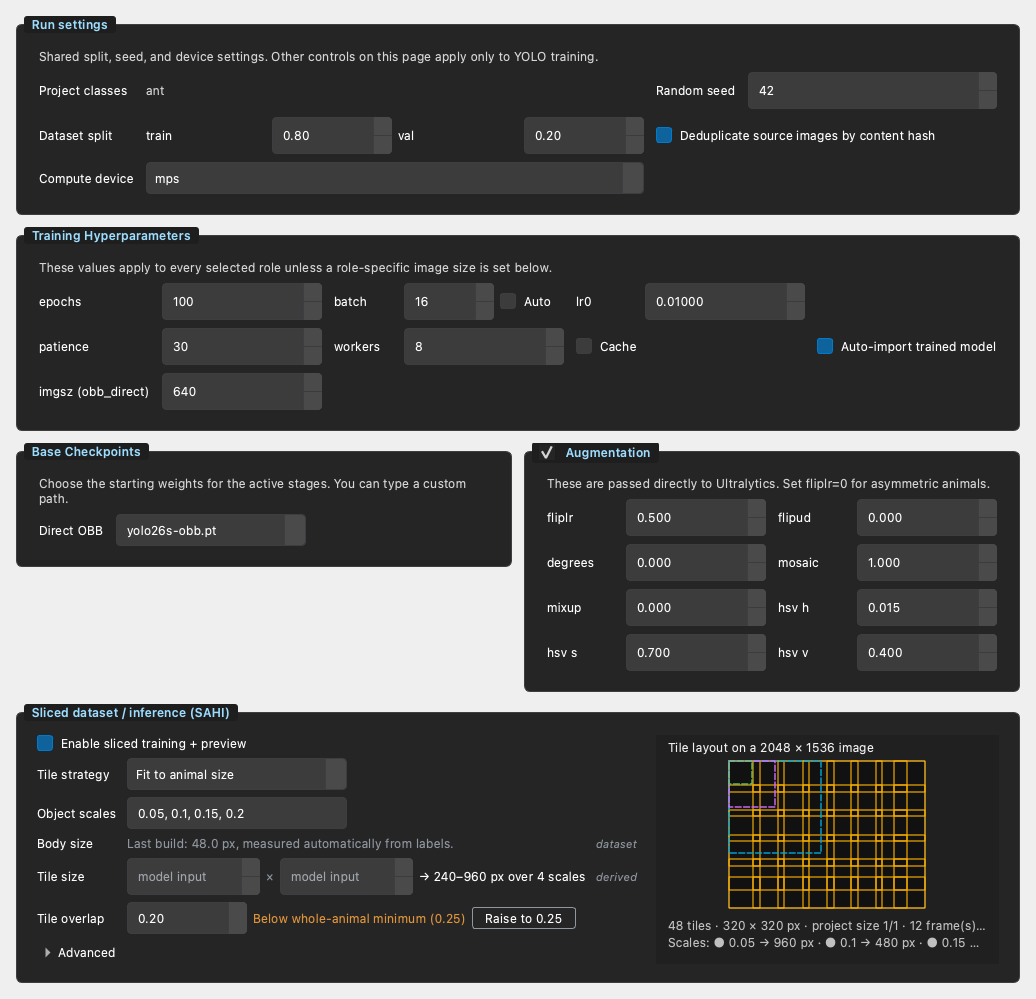
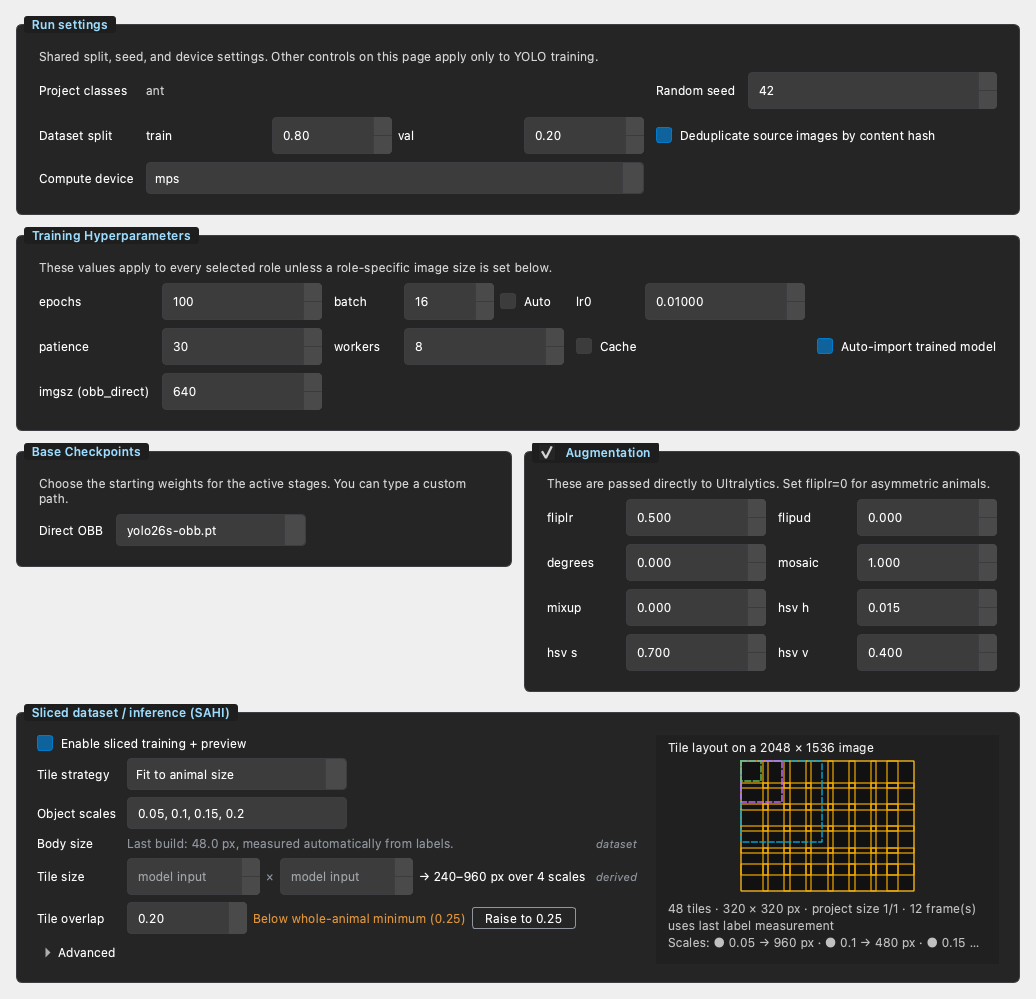
docs(sahi): regenerate the gallery after the S4b widget fixes
host_trackerkit shows a loaded 2448x2048 video's frame ('source frame');
host_trackerkit_custom shows the labelled example frame, the profile badge on
the custom tile and the body/tile overlap minimum (0.11). Every caption now
elides at a word boundary. The tool refuses to grab if the YOLO page is not
the one shown.

Changed region(s): [[0.6486, 0.7447, 0.9575, 0.9309]]

diff --git a/tools/sahi_widget_gallery.py b/tools/sahi_widget_gallery.py
@@ -10,8 +10,9 @@ published model leaks into the pictures. Writes PNGs into ``--out``:
 * ``host_*.png`` -- the real DetectKit hosts at their natural size, and the
   TrackerKit main window's "Find Animals" page (YOLO direct, SAHI on, a model
   sidecar with two calibration profiles): ``host_trackerkit.png`` on the
-  primary profile, ``host_trackerkit_custom.png`` on the custom-geometry
-  profile with Advanced expanded.
+  primary profile with a loaded 2448 x 2048 video's frame size,
+  ``host_trackerkit_custom.png`` on the custom-geometry profile with Advanced
+  expanded and no video (the labelled example frame).
 
 Usage::
 
@@ -346,6 +347,14 @@ def _seed_trackerkit_model(root: Path) -> Path:
     return model
 
 
+def _assert_yolo_page(panel) -> None:
+    """Fail loudly rather than publish a shot of the wrong detection page."""
+    if panel.combo_detection_method.currentText() != "YOLO OBB" or (
+        panel.stack_detection.currentIndex() != 1
+    ):
+        raise RuntimeError("TrackerKit gallery: the YOLO page is not shown")
+
+
 def render_trackerkit(out: Path, app, root: Path) -> list[Path]:
     """TrackerKit's Find Animals page with the SAHI widget in its YOLO group."""
     from hydra_suite.trackerkit.gui.main_window import MainWindow
@@ -369,15 +378,21 @@ def render_trackerkit(out: Path, app, root: Path) -> list[Path]:
     panel.combo_yolo_obb_mode.setCurrentIndex(0)  # Direct
     panel.apply_slice_meta_for_model(str(model))
     panel.chk_slice_enabled.setChecked(True)
+    # What loading a 2448 x 2048 video does (session.py); the custom shot
+    # below shows the labelled example frame instead (no video).
+    panel.set_slice_preview_frame_size(2448, 2048)
+    _assert_yolo_page(panel)
     written = [
         _grab_scroll_page(
             window, panel.slice_settings, out / "host_trackerkit.png", app
         )
     ]
+    panel.set_slice_preview_frame_size(None, None)
     panel.combo_slice_profile.setCurrentIndex(
         panel.combo_slice_profile.findData("fast")
     )
     panel.slice_settings.btn_slice_advanced.setChecked(True)  # the user path
+    _assert_yolo_page(panel)
     written.append(
         _grab_scroll_page(
             window, panel.slice_settings, out / "host_trackerkit_custom.png", app
